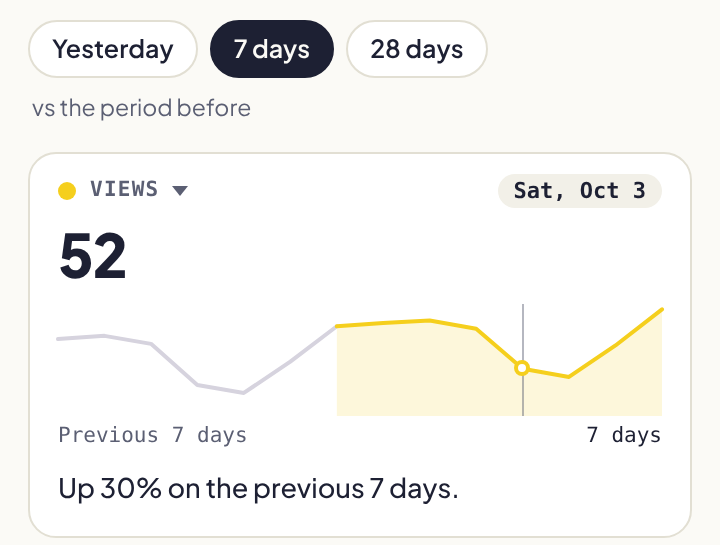
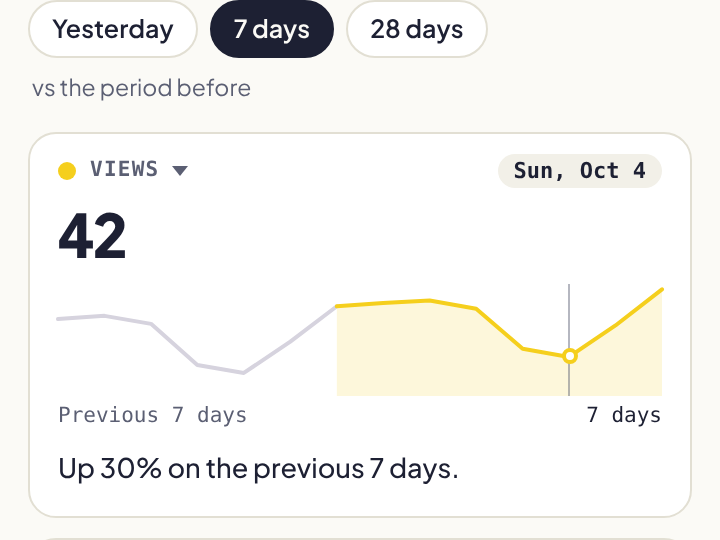
Fresh panel images: Quiz tab, light picker, current hover
Claude-Session: https://claude.ai/code/session_015jBukxV2aw35ko9dUCXjxA

diff --git a/index.html b/index.html
@@ -64,7 +64,7 @@
         <div class="qtags"><span class="c-alive">5 questions</span><span class="c-read">Your real data</span><span class="c-change">Beat your score</span></div>
       </div>
       <figure class="shot">
-        <img src="img/panel-quiz.png" width="720" height="1520" alt="The Quiz tab: question 1 of 5 asks what share of visits in the last 7 days really engaged with this page, with three answers to choose from.">
+        <img src="img/panel-quiz.png" width="720" height="1520" alt="The Quiz tab: compared to the previous 7 days, views on this page went up, stayed about the same or went down. Went up is marked right, with a chart.">
       </figure>
     </div>
   </section>
@@ -97,7 +97,7 @@
         </ul>
       </div>
       <figure class="shot">
-        <img src="img/panel-picker.png" width="720" height="1500" alt="The metric menu open in dark mode, grouped into Traffic and Engagement, each metric with a small change badge such as +30% or −5 pts.">
+        <img src="img/panel-picker.png" width="720" height="1040" alt="The metric menu open on the second card, grouped into Traffic and Engagement, each metric with a small change badge such as +30% or −5 pts.">
       </figure>
     </div>
   </section>
@@ -112,7 +112,7 @@
         <div class="chips"><span>Yesterday <b>vs. the day before</b></span><span>Last 7 days <b>vs. the previous 7 days</b></span><span>Last 28 days <b>vs. the previous 28 days</b></span></div>
       </div>
       <figure class="shot">
-        <img src="img/panel-hover.png" width="720" height="545" alt="The views card while hovering: the figure reads 52 and a date pill says Sat, Oct 3, with a marker on the line at that day.">
+        <img src="img/panel-hover.png" width="720" height="540" alt="The views card while hovering: the figure reads 42 and a date pill says Sun, Oct 4, with a marker on the line at that day.">
       </figure>
     </div>
   </section>
